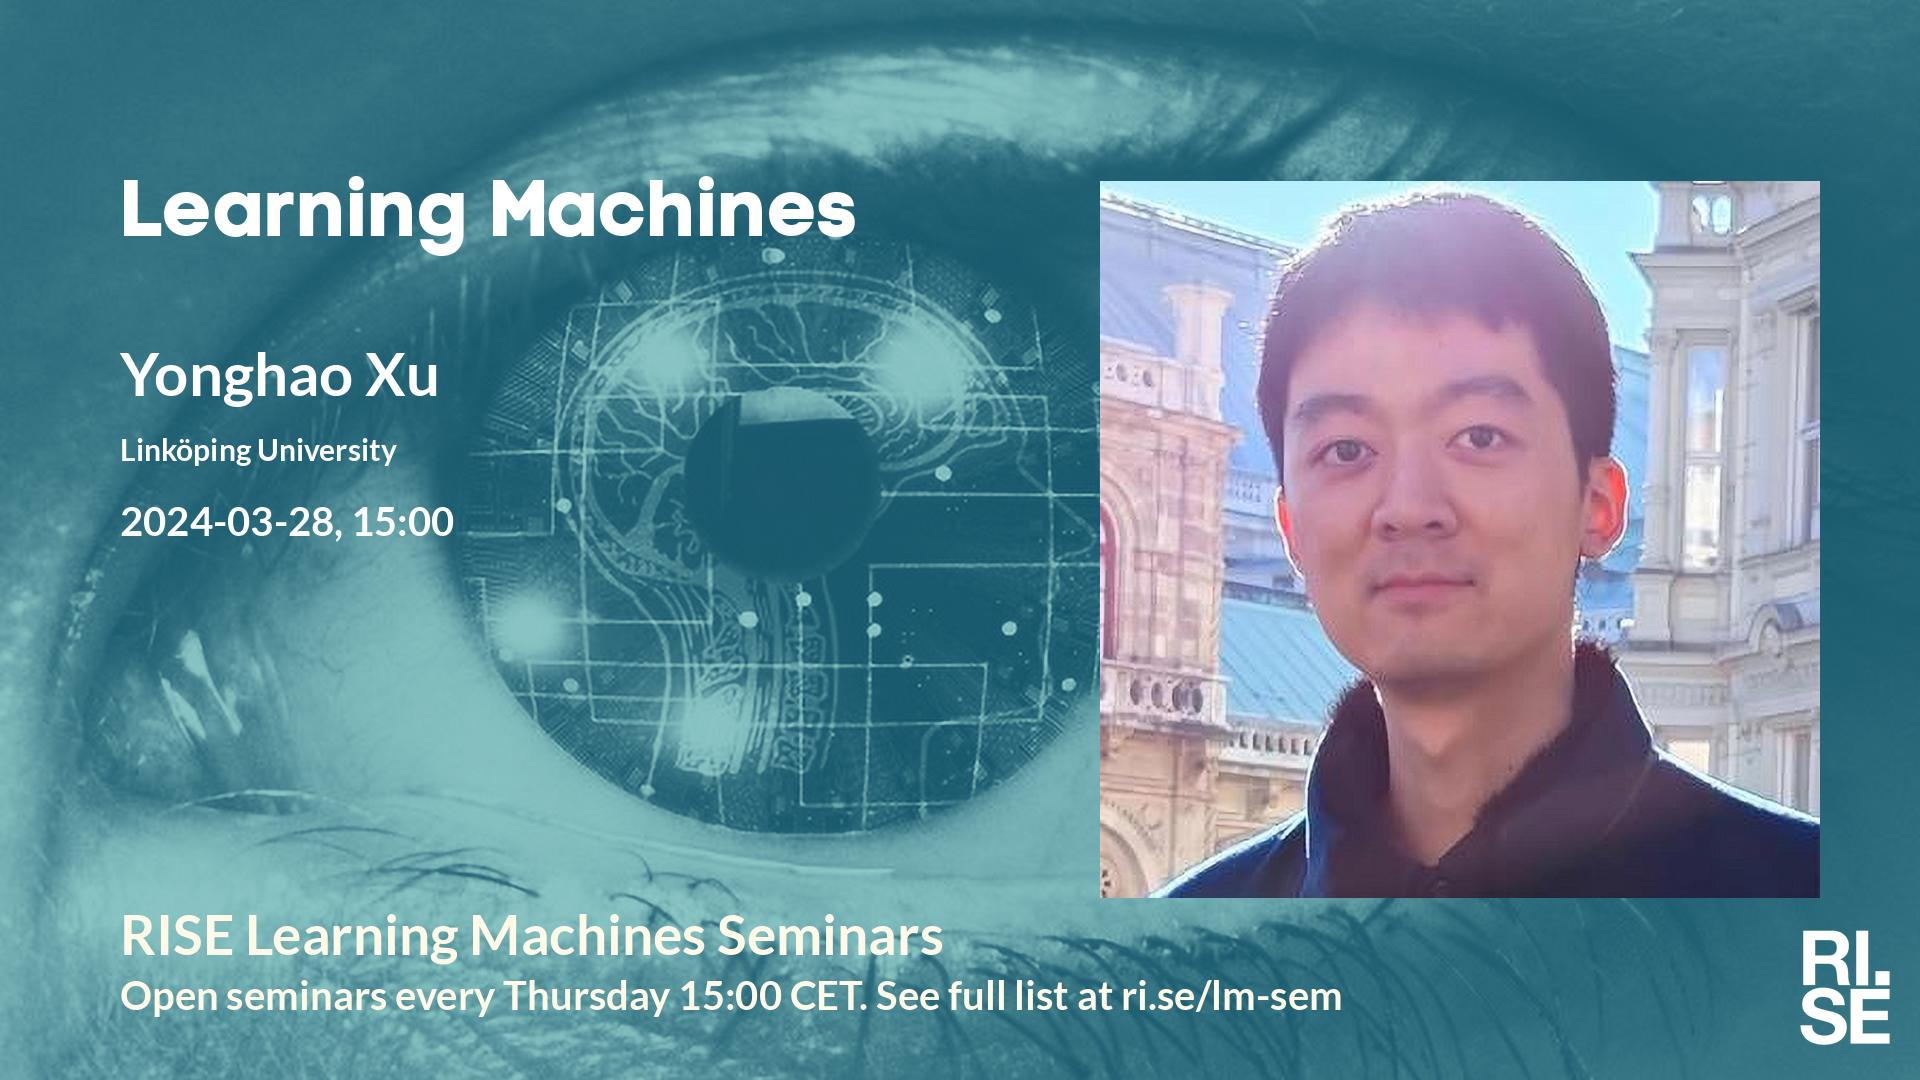
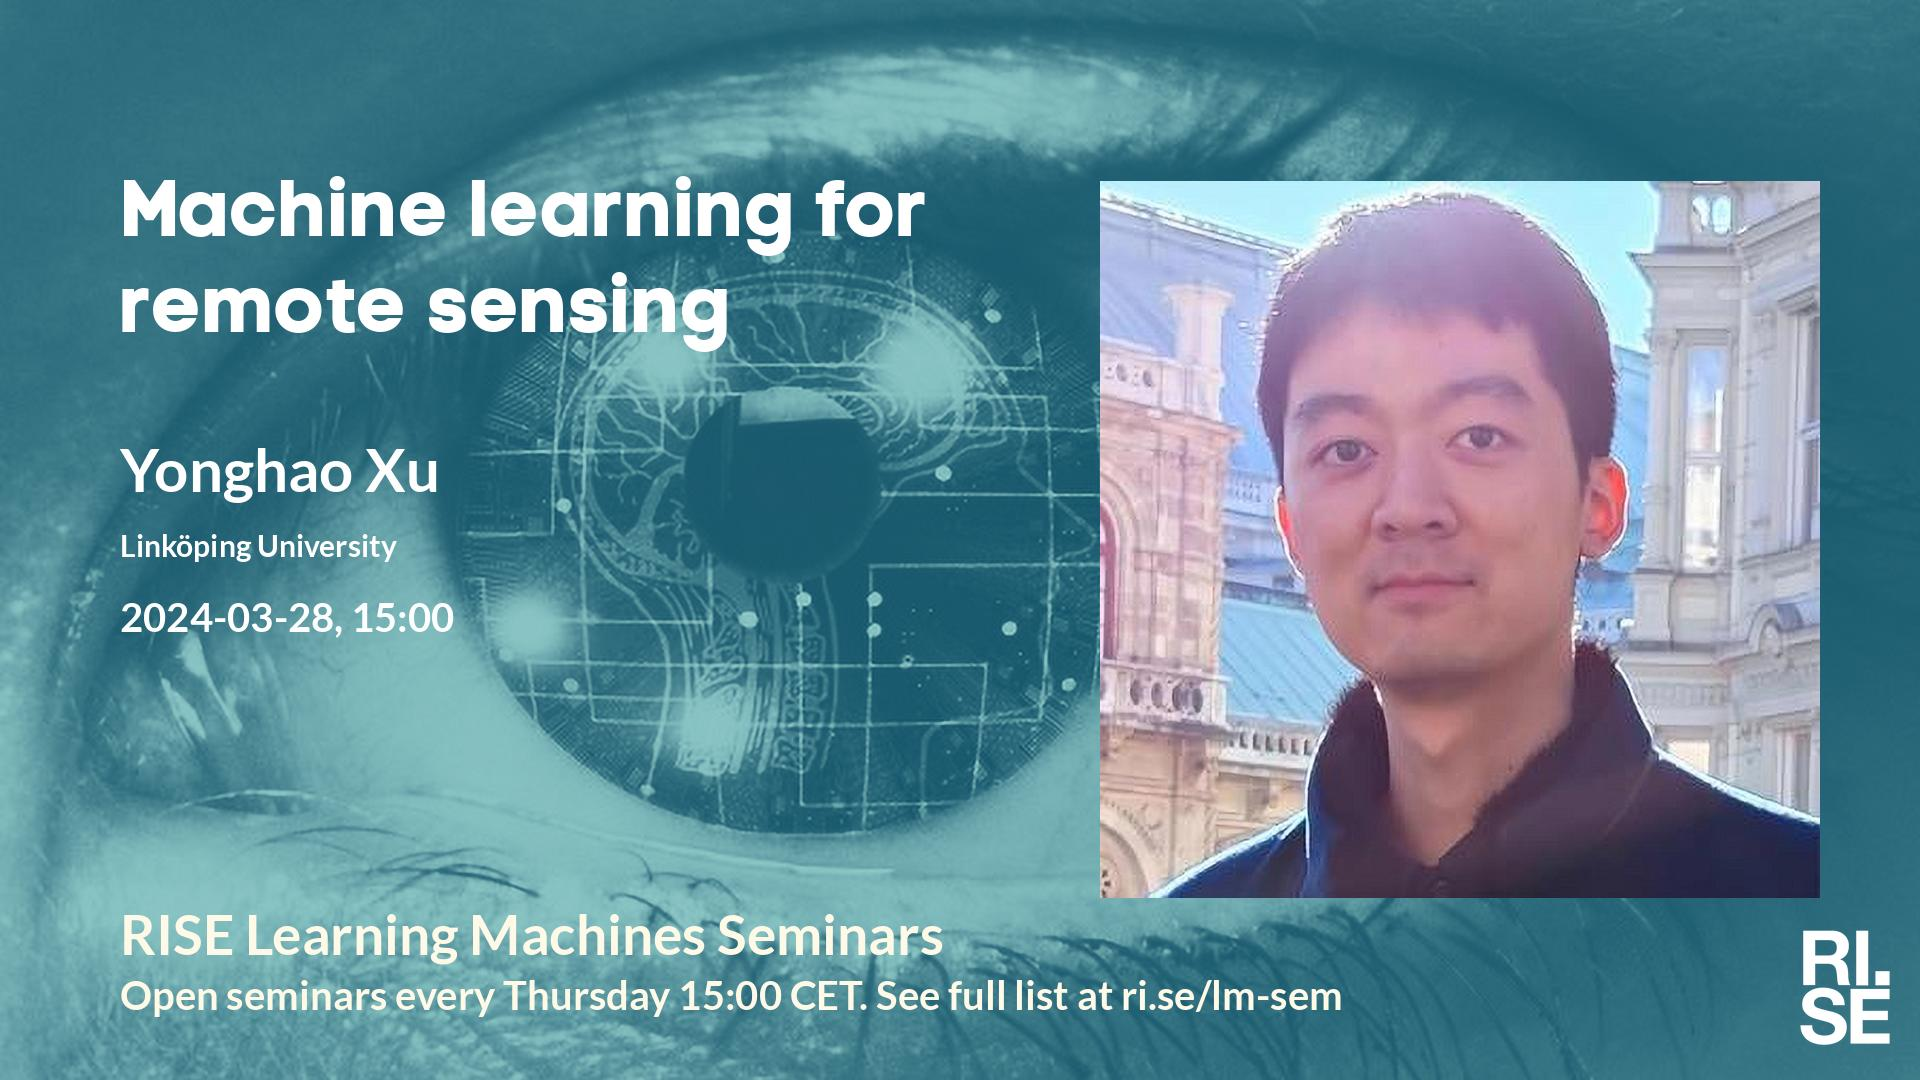
Updated plan on web site.

Changed region(s): [[0.0625, 0.1528, 0.5, 0.3667], [0.0625, 0.3972, 0.25, 0.5194], [0.0625, 0.55, 0.25, 0.6111]]

diff --git a/lm/index.md b/lm/index.md
@@ -12,10 +12,10 @@ table {border-collapse: collapse;}
 | <span style="color:red"> 2024-02-15 </span> | <span style="color:red"> Sportlov </span> | <span style="color:red">  </span> | <span style="color:red">  </span> | <span style="color:red">  </span> | <span style="color:red">  </span> | <span style="color:red"> CANCELLED </span> |
 |  2024-02-22  |  [Alexander Mathis, EPFL](2024-02-22.md)  |  [photo](photo-alexander-mathis.jpg)  |  [social media ](social-media-alexander-mathis.jpg)  |  [meeting backdrop ](meeting-backdrop-alexander-mathis.jpg)  |  [youtube thumbnail ](youtube-thumbnail-alexander-mathis.jpg)  |  STABP  |
 | <span style="color:red"> 2024-02-29 </span> | <span style="color:red"> Sportlov </span> | <span style="color:red">  </span> | <span style="color:red">  </span> | <span style="color:red">  </span> | <span style="color:red">  </span> | <span style="color:red"> CANCELLED </span> |
-| <span style="color:purple"> 2024-03-07 </span> | <span style="color:purple"> *Up for grabs!!!* </span> | <span style="color:purple">  </span> | <span style="color:purple">  </span> | <span style="color:purple">  </span> | <span style="color:purple">  </span> | <span style="color:purple"> ~~STABP~~ </span> |
+| <span style="color:red"> 2024-03-07 </span> | <span style="color:red"> *Up for grabs!!!* </span> | <span style="color:red">  </span> | <span style="color:red">  </span> | <span style="color:red">  </span> | <span style="color:red">  </span> | <span style="color:red"> CANCELLED </span> |
 |  2024-03-14  |  [Santiago Martinez Balvanera, University College London](2024-03-14.md)  |  [photo](photo-santiago-martinez-balvanera.jpg)  |  [social media ](social-media-santiago-martinez-balvanera.jpg)  |  [meeting backdrop ](meeting-backdrop-santiago-martinez-balvanera.jpg)  |  [youtube thumbnail ](youtube-thumbnail-santiago-martinez-balvanera.jpg)  |  STABP  |
 |  2024-03-21  |  [Fredrik Gustafsson, Karolinska Institutet](2024-03-21.md)  |  [photo](photo-fredrik-gustafsson.jpg)  |  [social media ](social-media-fredrik-gustafsson.jpg)  |  [meeting backdrop ](meeting-backdrop-fredrik-gustafsson.jpg)  |  [youtube thumbnail ](youtube-thumbnail-fredrik-gustafsson.jpg)  |  STABP  |
-|  2024-03-28  |  [Yonghao Xu, Linköping University](2024-03-28.md)  |  [photo](photo-yonghao-xu.jpg)  |  [social media ](social-media-yonghao-xu.jpg)  |  [meeting backdrop ](meeting-backdrop-yonghao-xu.jpg)  |  [youtube thumbnail ](youtube-thumbnail-yonghao-xu.jpg)  |  S~~TAB~~P  |
+|  2024-03-28  |  [Yonghao Xu, Linköping University](2024-03-28.md)  |  [photo](photo-yonghao-xu.jpg)  |  [social media ](social-media-yonghao-xu.jpg)  |  [meeting backdrop ](meeting-backdrop-yonghao-xu.jpg)  |  [youtube thumbnail ](youtube-thumbnail-yonghao-xu.jpg)  |  STABP  |
 |  2024-04-04  |  [Karsten Kreis, NVIDIA Toronto AI Lab](2024-04-04.md)  |  [photo](photo-karsten-kreis.jpg)  |  [social media ](social-media-karsten-kreis.jpg)  |  [meeting backdrop ](meeting-backdrop-karsten-kreis.jpg)  |  [youtube thumbnail ](youtube-thumbnail-karsten-kreis.jpg)  |  S~~TAB~~P  |
 |  2024-04-11  |  [Alouette van Hove, University of Oslo](2024-04-11.md)  |    |  [social media ](social-media-alouette-van-hove.jpg)  |  [meeting backdrop ](meeting-backdrop-alouette-van-hove.jpg)  |  [youtube thumbnail ](youtube-thumbnail-alouette-van-hove.jpg)  |  S~~TABP~~  |
 | <span style="color:purple"> 2024-04-18 </span> | <span style="color:purple"> *Up for grabs!!!* </span> | <span style="color:purple">  </span> | <span style="color:purple">  </span> | <span style="color:purple">  </span> | <span style="color:purple">  </span> | <span style="color:purple"> ~~STABP~~ </span> |

diff --git a/lm/2024-03-28.md b/lm/2024-03-28.md
@@ -4,13 +4,14 @@ metatags: "<meta name=\"robots\" content=\"noindex,nofollow\" />"
 ---
 Welcome to this week's Learning Machines seminar.
 
-**Title:** N/A
+**Title:** Machine learning for remote sensing
 
 **Speaker:** Yonghao Xu, Linköping University
 
-**Abstract:** N/A
+**Abstract:** Recent years have witnessed significant advancements in machine learning for remote sensing and Earth observation. However, there are still many challenges in constructing intelligent and secure machine learning models within the geoscience and remote sensing realm. This presentation will introduce recent developments in machine learning for remote sensing through four perspectives: intelligent remote sensing data interpretation, vision and language for remote sensing, trustworthy remote sensing models, and AI for environmental monitoring.
+To begin, I will introduce a consistency-regularized region-growing network, which can achieve robust land cover classification performance with limited point-level annotations. Following this, I will discuss the threat of adversarial attacks in the remote sensing domain and present the proposed Mixup-Attack in detail. Subsequently, I will briefly introduce our recent work on text-to-image generation for remote sensing data. Finally, I will share some preliminary works on natural hazard monitoring (e.g., landslide and wildfire detection) using machine learning techniques and satellite remote sensing data.
 
-**About the speaker:** N/A
+**About the speaker:** Yonghao Xu is an Assistant Professor at the Computer Vision Laboratory (CVL), Linköping University, Sweden. He received his Ph.D. degrees in photogrammetry and remote sensing from Wuhan University, China, in 2021. From 2021 to 2023, he was a Postdoctoral Researcher with the Institute of Advanced Research in Artificial Intelligence (IARAI), Austria. He was a recipient of the First Place award in the IEEE Geoscience and Remote Sensing Society (GRSS) Data Fusion Contest in 2018. Since 2022, he has been working as the co-lead of the Benchmarking Working Group in the IEEE GRSS Image Analysis and Data Fusion Technical Committee. His research interests include remote sensing, computer vision, and machine learning.
 
 **Location:** This is an online seminar. Connect using Zoom.
 
